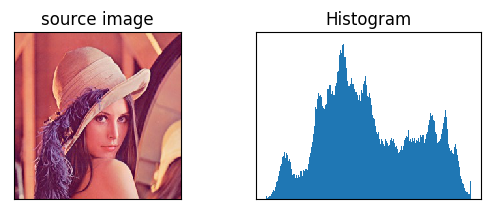
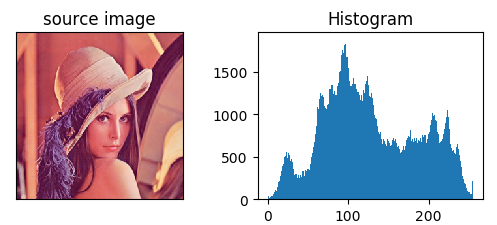
DetectThreshold send

Changed region(s): [[0.0309, 0.0585, 0.4012, 0.9951], [0.4321, 0.0293, 1.0, 0.9951], [0.1235, 0.2341, 0.1543, 0.2634]]

diff --git a/2-Mode Method.py b/2-Mode Method.py
@@ -10,6 +10,6 @@ plt.subplot(221), plt.imshow(image, "gray")
 plt.title("source image"), plt.xticks([]), plt.yticks([])
 
 plt.subplot(222), plt.hist(image.ravel(), 256)
-plt.title("Histogram"), plt.xticks([]), plt.yticks([])
+plt.title("Histogram")
 
 plt.show()

diff --git a/DetectThreshold.py b/DetectThreshold.py
@@ -1,0 +1,9 @@
+#coding:utf-8
+import cv2
+import numpy as np
+from matplotlib import pyplot as plt
+
+Image = cv2.imread('lena.jpg', 0)
+T = np.average(Image)
+while True:
+    g= Image>=
